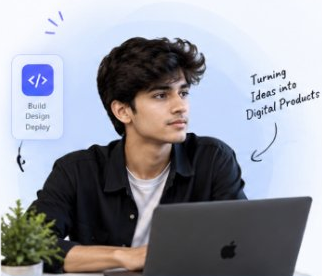
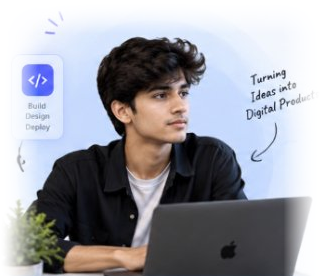
feat: update heading to Our Services, merge developer photo borderless, and add dynamic 2-at-a-time alternating typewriter

diff --git a/script.js b/script.js
@@ -1335,6 +1335,111 @@ if (document.readyState === "loading") {
 // ============================================================
 // DYNAMIC SIDE-PREVIEW WINDOW (IMG-ONLY TRIGGER, 60FPS LERP PHYSICS, 3S LIGHT-GREEN BUTTON)
 // ============================================================
+// ============================================================
+// DYNAMIC 2-AT-A-TIME SERVICE HEADINGS TYPEWRITER ANIMATION
+// ============================================================
+function initServicesTypewriter() {
+  const headings = document.querySelectorAll(".service-title-rgb");
+  if (!headings.length) return;
+
+  const items = Array.from(headings).map(h => {
+    let textSpan = h.querySelector(".typewriter-text");
+    let cursorSpan = h.querySelector(".typewriter-cursor");
+    const full = h.getAttribute("data-full-text") || h.textContent.trim();
+    if (!textSpan) {
+      h.innerHTML = `<span class="typewriter-text">${full}</span><span class="typewriter-cursor">|</span>`;
+      textSpan = h.querySelector(".typewriter-text");
+      cursorSpan = h.querySelector(".typewriter-cursor");
+    }
+    return {
+      element: h,
+      textSpan: textSpan,
+      cursorSpan: cursorSpan,
+      fullText: full,
+      isTyping: false
+    };
+  });
+
+  // Exactly 2 cards can be actively animating at any given time
+  const MAX_ACTIVE = 2;
+  const activeIndices = new Set();
+
+  function runCardTypewriter(index) {
+    const item = items[index];
+    if (!item || item.isTyping) return;
+
+    item.isTyping = true;
+    activeIndices.add(index);
+    if (item.cursorSpan) item.cursorSpan.classList.add("active");
+
+    const full = item.fullText;
+    let currentLength = full.length;
+
+    // Step 1: Hold briefly before backspacing
+    setTimeout(() => {
+      // Step 2: Smooth deleting character by character
+      const deleteInterval = setInterval(() => {
+        if (currentLength > 0) {
+          currentLength--;
+          item.textSpan.textContent = full.slice(0, currentLength);
+        } else {
+          clearInterval(deleteInterval);
+          // Step 3: Brief pause when completely deleted
+          setTimeout(() => {
+            // Step 4: Type back forward smoothly character by character
+            const typeInterval = setInterval(() => {
+              if (currentLength < full.length) {
+                currentLength++;
+                item.textSpan.textContent = full.slice(0, currentLength);
+              } else {
+                clearInterval(typeInterval);
+                // Step 5: Finished typing! Hold cursor briefly then hide
+                setTimeout(() => {
+                  if (item.cursorSpan) item.cursorSpan.classList.remove("active");
+                  item.isTyping = false;
+                  activeIndices.delete(index);
+
+                  // Pick next dynamic card after a natural pause
+                  setTimeout(pickNextPairOrCard, 1200 + Math.random() * 1500);
+                }, 1600);
+              }
+            }, 65 + Math.random() * 20); // Smooth 65-85ms typing cadence
+          }, 350);
+        }
+      }, 35); // 35ms smooth backspace
+    }, 1000 + Math.random() * 1000);
+  }
+
+  function pickNextPairOrCard() {
+    if (activeIndices.size >= MAX_ACTIVE) return;
+
+    // Available cards that are not typing right now
+    const available = [];
+    for (let i = 0; i < items.length; i++) {
+      if (!activeIndices.has(i)) available.push(i);
+    }
+    if (!available.length) return;
+
+    // Pick random available card
+    const chosenIndex = available[Math.floor(Math.random() * available.length)];
+    runCardTypewriter(chosenIndex);
+  }
+
+  // Start with 2 random distinct cards after page load (staggered for organic rhythm)
+  setTimeout(() => {
+    const idx1 = Math.floor(Math.random() * items.length);
+    let idx2 = Math.floor(Math.random() * items.length);
+    while (idx2 === idx1 && items.length > 1) {
+      idx2 = Math.floor(Math.random() * items.length);
+    }
+
+    runCardTypewriter(idx1);
+    setTimeout(() => {
+      runCardTypewriter(idx2);
+    }, 1400);
+  }, 2000);
+}
+
 function initDraggableProjectPreview() {
   const modal = document.getElementById("floatingProjectPreview");
   const stage = document.getElementById("floatingImageStage");
@@ -1689,8 +1794,13 @@ function initDraggableProjectPreview() {
 }
 
 // Initialize on DOM ready
-if (document.readyState === "loading") {
-  document.addEventListener("DOMContentLoaded", initDraggableProjectPreview);
-} else {
+function initServicesAndPreview() {
   initDraggableProjectPreview();
+  initServicesTypewriter();
+}
+
+if (document.readyState === "loading") {
+  document.addEventListener("DOMContentLoaded", initServicesAndPreview);
+} else {
+  initServicesAndPreview();
 }

diff --git a/index.html b/index.html
@@ -690,7 +690,7 @@
       <div class="services-header-exact" data-aos="fade-up">
         <div class="services-pill-badge">WHAT I OFFER</div>
         <h2 class="services-main-title">
-          Software Developer <span class="dash-separator">–</span> <span class="title-highlight-gradient">Services</span>
+          Our <span class="title-highlight-gradient">Services</span>
         </h2>
         <div class="services-title-underline"></div>
         <p class="services-lead-desc">
@@ -760,7 +760,7 @@
               </div>
               <span class="service-card-num">01</span>
             </div>
-            <h3 class="service-title-rgb">Web Development</h3>
+            <h3 class="service-title-rgb" data-full-text="Web Development"><span class="typewriter-text">Web Development</span><span class="typewriter-cursor">|</span></h3>
             <p class="service-card-desc">Modern, responsive and high-performance websites and web applications.</p>
             <ul class="service-checklist">
               <li><i class="fas fa-check-circle"></i><span>Business websites</span></li>
@@ -784,7 +784,7 @@
               </div>
               <span class="service-card-num">02</span>
             </div>
-            <h3 class="service-title-rgb">Mobile App Development</h3>
+            <h3 class="service-title-rgb" data-full-text="Mobile App Development"><span class="typewriter-text">Mobile App Development</span><span class="typewriter-cursor">|</span></h3>
             <p class="service-card-desc">Native and cross-platform mobile applications for Android and iOS.</p>
             <ul class="service-checklist">
               <li><i class="fas fa-check-circle"></i><span>Android applications</span></li>
@@ -808,7 +808,7 @@
               </div>
               <span class="service-card-num">03</span>
             </div>
-            <h3 class="service-title-rgb">AI &amp; Machine Learning Solutions</h3>
+            <h3 class="service-title-rgb" data-full-text="AI & Machine Learning Solutions"><span class="typewriter-text">AI &amp; Machine Learning Solutions</span><span class="typewriter-cursor">|</span></h3>
             <p class="service-card-desc">Smart solutions to automate, analyze and improve your business.</p>
             <ul class="service-checklist">
               <li><i class="fas fa-check-circle"></i><span>AI chatbots</span></li>
@@ -832,7 +832,7 @@
               </div>
               <span class="service-card-num">04</span>
             </div>
-            <h3 class="service-title-rgb">Backend &amp; API Development</h3>
+            <h3 class="service-title-rgb" data-full-text="Backend & API Development"><span class="typewriter-text">Backend &amp; API Development</span><span class="typewriter-cursor">|</span></h3>
             <p class="service-card-desc">Robust and secure backend systems with scalable architecture.</p>
             <ul class="service-checklist">
               <li><i class="fas fa-check-circle"></i><span>REST API development</span></li>
@@ -856,7 +856,7 @@
               </div>
               <span class="service-card-num">05</span>
             </div>
-            <h3 class="service-title-rgb">Cloud &amp; Deployment Solutions</h3>
+            <h3 class="service-title-rgb" data-full-text="Cloud & Deployment Solutions"><span class="typewriter-text">Cloud &amp; Deployment Solutions</span><span class="typewriter-cursor">|</span></h3>
             <p class="service-card-desc">Reliable deployment and cloud solutions for better performance and scalability.</p>
             <ul class="service-checklist">
               <li><i class="fas fa-check-circle"></i><span>Website hosting</span></li>
@@ -880,7 +880,7 @@
               </div>
               <span class="service-card-num">06</span>
             </div>
-            <h3 class="service-title-rgb">UI/UX &amp; Software Solutions</h3>
+            <h3 class="service-title-rgb" data-full-text="UI/UX & Software Solutions"><span class="typewriter-text">UI/UX &amp; Software Solutions</span><span class="typewriter-cursor">|</span></h3>
             <p class="service-card-desc">Clean, modern and user-friendly designs for better user experience.</p>
             <ul class="service-checklist">
               <li><i class="fas fa-check-circle"></i><span>Website redesign</span></li>

diff --git a/style.css b/style.css
@@ -6106,30 +6106,38 @@ footer,
 }
 
 .services-profile-card {
-  background: #ffffff !important;
-  border: 1px solid #e2e8f0 !important;
-  border-radius: 12px !important;
-  overflow: hidden !important;
-  box-shadow: 0 10px 30px rgba(15, 23, 42, 0.04) !important;
+  background: transparent !important;
+  border: none !important;
+  border-radius: 0 !important;
+  overflow: visible !important;
+  box-shadow: none !important;
   display: flex !important;
   justify-content: center !important;
-  align-items: center !important;
-  padding: 8px !important;
+  align-items: flex-end !important;
+  padding: 0 !important;
+  margin-bottom: -6px !important;
 }
 
 .services-profile-img-wrap {
   width: 100% !important;
-  border-radius: 14px !important;
-  overflow: hidden !important;
-  background: #f8fafc !important;
+  border-radius: 0 !important;
+  overflow: visible !important;
+  background: transparent !important;
+  border: none !important;
+  box-shadow: none !important;
+  display: flex !important;
+  justify-content: center !important;
 }
 
 .services-dev-img {
   width: 100% !important;
+  max-width: 360px !important;
   height: auto !important;
   display: block !important;
-  object-fit: cover !important;
-  border-radius: 14px !important;
+  object-fit: contain !important;
+  border-radius: 0 !important;
+  border: none !important;
+  background: transparent !important;
   transition: transform 0.4s ease !important;
 }
 
@@ -6314,13 +6322,39 @@ footer,
   line-height: 1.35 !important;
   margin: 0 0 8px 0 !important;
   letter-spacing: -0.2px !important;
-  display: inline-block !important;
+  display: block !important;
+  min-height: 2.85rem !important;
   background: linear-gradient(135deg, #0f172a 0%, #2563eb 25%, #7c3aed 50%, #06b6d4 75%, #0f172a 100%) !important;
   background-size: 300% 300% !important;
   -webkit-background-clip: text !important;
   -webkit-text-fill-color: transparent !important;
   background-clip: text !important;
   transition: filter 0.3s ease !important;
+}
+
+.typewriter-text {
+  display: inline;
+}
+
+.typewriter-cursor {
+  display: inline-block;
+  color: #2563eb;
+  -webkit-text-fill-color: #2563eb;
+  font-weight: 300;
+  margin-left: 2px;
+  opacity: 0;
+  transition: opacity 0.15s ease;
+  vertical-align: baseline;
+}
+
+.typewriter-cursor.active {
+  opacity: 1;
+  animation: typewriterBlink 0.75s infinite ease-in-out;
+}
+
+@keyframes typewriterBlink {
+  0%, 100% { opacity: 1; }
+  50% { opacity: 0; }
 }
 
 /* Staggered non-synchronized random color shifts so they never shift at the same time */
